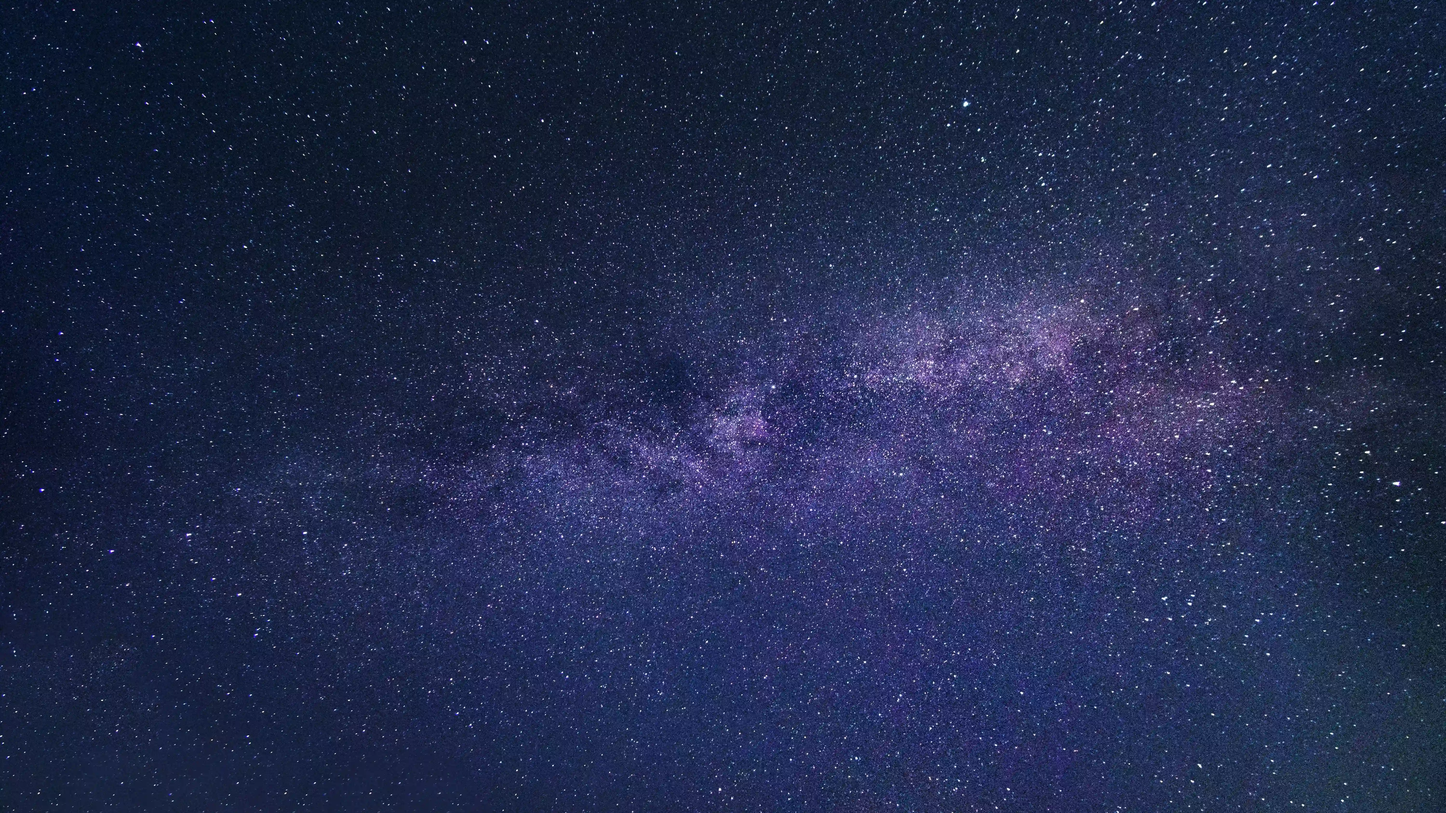
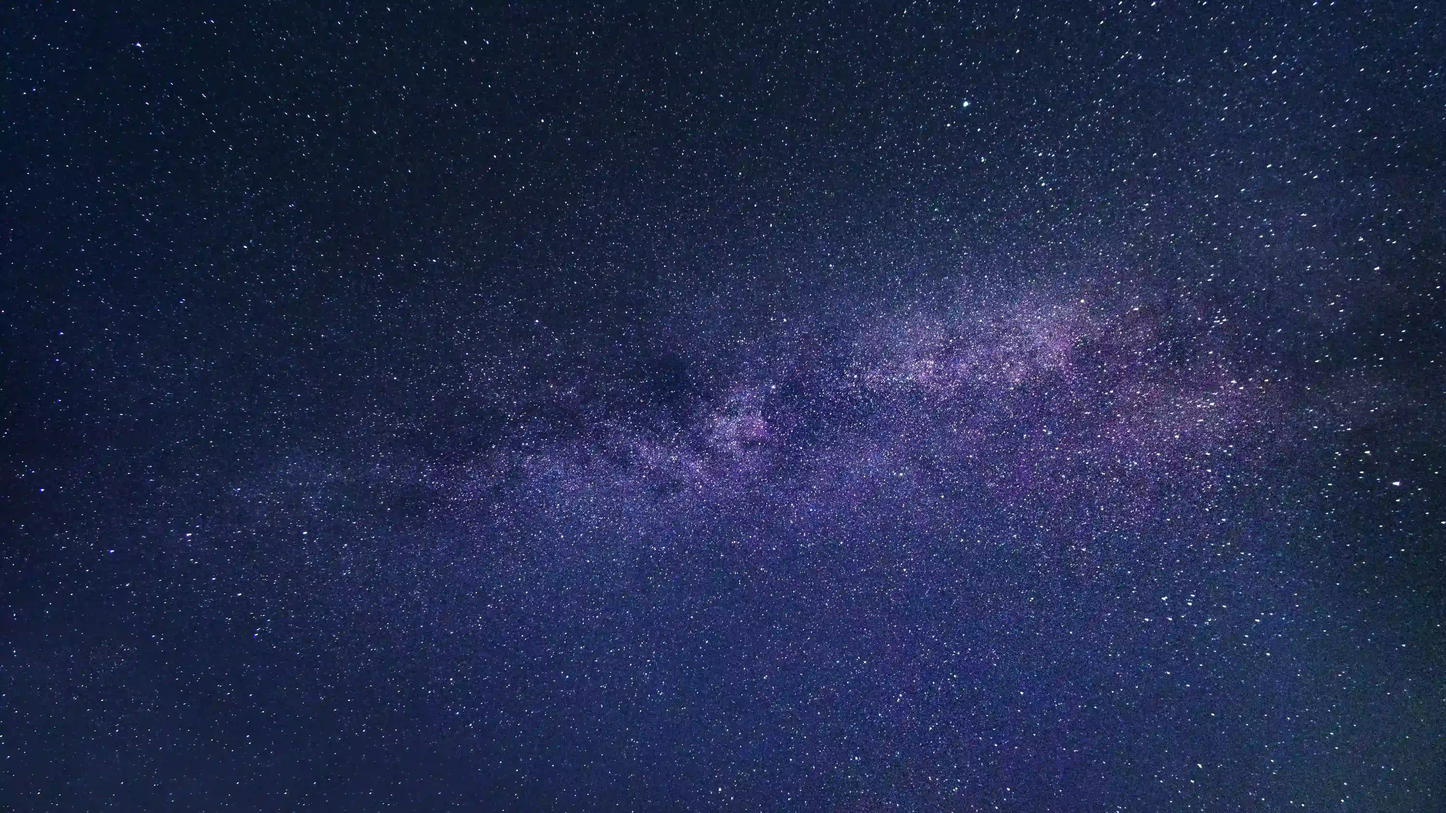
Update: Compressed and optimized images

Changed region(s): [[0.3428, 0.3422, 0.8727, 0.8089], [0.6545, 0.9956, 0.6857, 1.0]]

diff --git a/src/data/blogPosts.ts b/src/data/blogPosts.ts
@@ -5,21 +5,21 @@ export const blogPosts = [
       id: 1,
       title: "Mastering React Hooks",
       excerpt: "A deep dive into useState, useEffect, and custom hooks...",
-      image: "/blogs/blog-post.png",
+      image: "/blogs/blog-post.webp",
       url: "/blog/react-hooks",
     },
     {
       id: 2,
       title: "Next.js vs. React - Which One to Use?",
       excerpt: "Is Next.js worth switching to? A breakdown of its SSR, SSG, and features...",
-      image: "/blogs/blog-post.png",
+      image: "/blogs/blog-post.webp",
       url: "/blog/next-vs-react",
     },
     {
       id: 3,
       title: "Framer Motion: The Ultimate Guide",
       excerpt: "Learn how to add stunning animations with Framer Motion...",
-      image: "/blogs/blog-post.png",
+      image: "/blogs/blog-post.webp",
       url: "/blog/framer-motion",
     },
   ]

diff --git a/src/components/projects/Shuttle.tsx b/src/components/projects/Shuttle.tsx
@@ -28,7 +28,7 @@ export default function Shuttle({ isShuttleMoving, isShuttleForward }: ShuttlePr
                         transition={{ duration: 0.4, repeat: Infinity }}
                     >
                         <Image 
-                            src="/projects-page/flame.png"
+                            src="/projects-page/flame.webp"
                             alt="Shuttle flame"
                             width={20}
                             height={40}
@@ -38,7 +38,7 @@ export default function Shuttle({ isShuttleMoving, isShuttleForward }: ShuttlePr
                 )}
 
                 <Image 
-                    src="/projects-page/shuttle.png"
+                    src="/projects-page/shuttle.webp"
                     alt="Space shuttle"
                     width={250}
                     height={250}

diff --git a/src/components/projects/Asteroids.tsx b/src/components/projects/Asteroids.tsx
@@ -6,7 +6,7 @@ import { motion } from "framer-motion"
 export default function Asteriods({ className }: {className?: string}) {
     return (
         <motion.img 
-            src="/projects-page/asteroid.png"
+            src="/projects-page/asteroid.webp"
             alt="Comet"
             className={`absolute ${className || ""}`}
             animate={{ x: [0, 100, 0] }}

diff --git a/src/app/projects/page.tsx b/src/app/projects/page.tsx
@@ -158,7 +158,7 @@ export default function ProjectsPage() {
             >
               <ProjectCard 
                 title={project.title}
-                textureSrc={`/projects-page/pixel-planet${index + 1}.png`}
+                textureSrc={`/projects-page/pixel-planet${index + 1}.webp`}
               />
             </a>
           ))}

diff --git a/src/components/about/SystemProfile.tsx b/src/components/about/SystemProfile.tsx
@@ -19,7 +19,7 @@ export default function SystemProfile() {
         </motion.div>
 
         <motion.img 
-            src="/avatar.png"
+            src="/avatar.webp"
             alt="Avatar of Mehran Shahani"
             className="w-32 h-32 mx-auto rounded-full border-2 border-color-neonGreen shadow-lg"
             initial={{ scale: 0 }}

diff --git a/src/components/projects/Comet.tsx b/src/components/projects/Comet.tsx
@@ -13,7 +13,7 @@ export default function Comet() {
             className="absolute top-0 left-0 z-10"
         >
             <Image
-                src="/projects-page/comet.png"
+                src="/projects-page/comet.webp"
                 alt="Comet"
                 width={64}
                 height={64}

diff --git a/src/components/projects/ProjectCard.tsx b/src/components/projects/ProjectCard.tsx
@@ -25,6 +25,7 @@ export default function ProjectCard({ title, textureSrc }: ProjectCardProps) {
                     fill
                     className="object-cover pixelated z-0"
                     style={{ zIndex: 1 }}
+                    loading="eager"
                 />
             </div>
 
